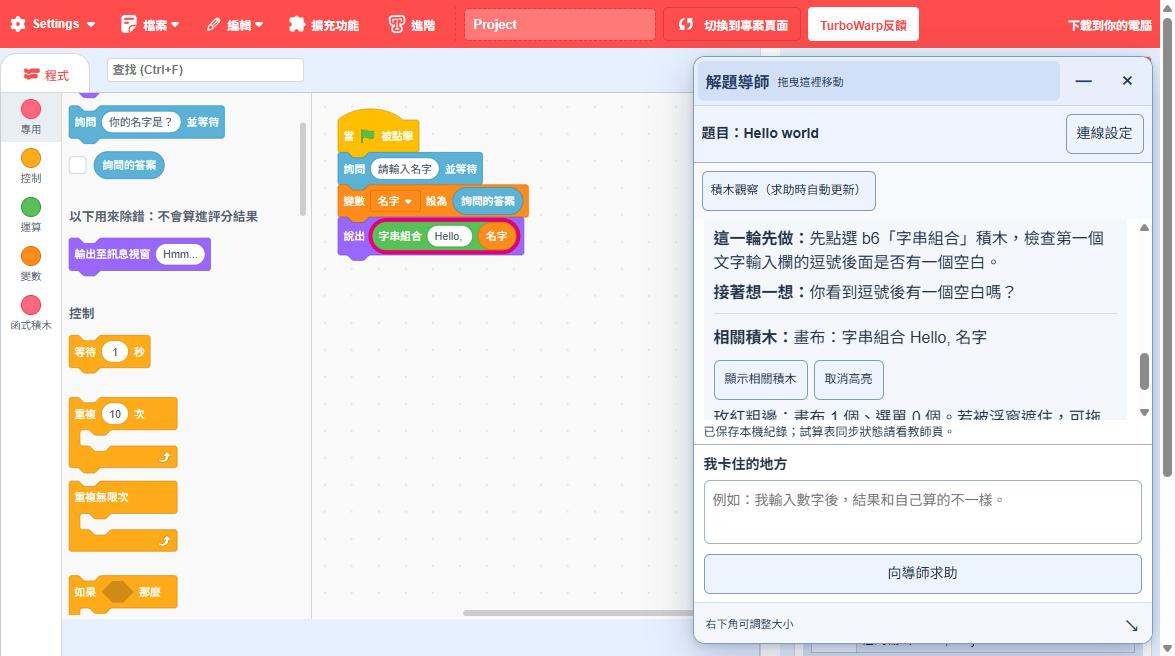
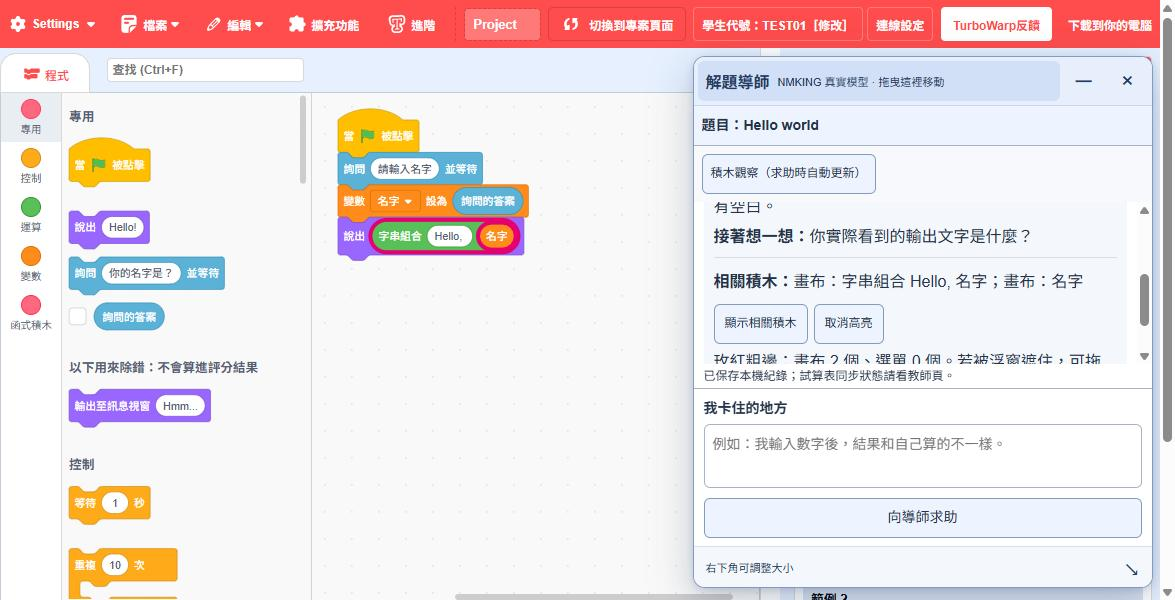
docs: 更新導師截圖與說明為頂端選單列新介面

diff --git a/README.md b/README.md
@@ -29,7 +29,7 @@ osep-judge 是一個以 Scratch 積木程式解題為主的教學平台，介面
 
 **1. 學生與 AI 導師討論時，相關積木會被標出來**
 
-學生在浮動的「解題導師」視窗描述卡住的地方，導師回覆「這一輪先做」與「接著想一想」。回覆提到的積木會在畫布或左側選單用玫紅粗邊標出；若在左側選單，會自動捲動到該積木，學生不用自己找。按「取消高亮」可恢復原樣；導師只標示，不會替學生拖曳或執行積木。
+學生先在頂端紅色選單列的「學生代號」填寫並確認代號（未填時會自動展開醒目提醒），導師模式則在旁邊的「連線設定」切換。接著在浮動的「解題導師」視窗描述卡住的地方，導師回覆「這一輪先做」與「接著想一想」。回覆提到的積木會在畫布或左側選單用玫紅粗邊標出；若在左側選單，會自動捲動到該積木，學生不用自己找。按「取消高亮」可恢復原樣；導師只標示，不會替學生拖曳或執行積木。
 
 ![解題導師標出畫布上的「字串組合」積木](docs/screenshots/tutor-highlight.jpg)
 
